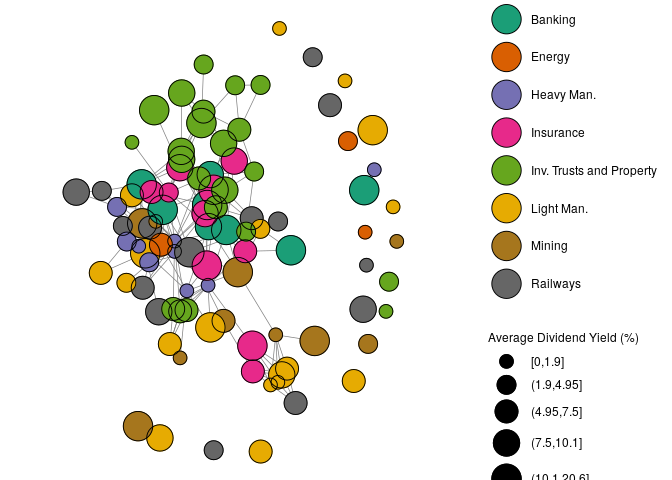
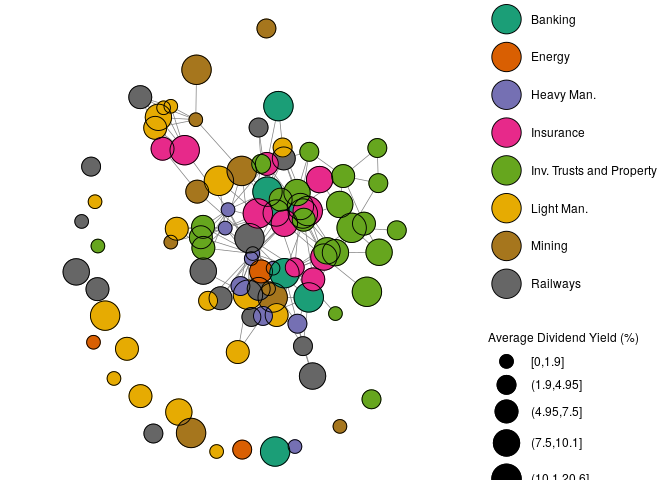
changed seed for nicer graph layout

diff --git a/README.md b/README.md
@@ -196,7 +196,7 @@ levels(indcat$IndCat) <- cat_cat
 
 V(cg)$indcat <- as.character(indcat$IndCat)
 
-set.seed(42)
+set.seed(123)
 ggnet2(cg, mode = 'fruchtermanreingold', layout.exp = .3,
        size = "prof", size.legend = "Average Dividend Yield (%)", 
        size.cut = 5, max_size = 10,
@@ -360,7 +360,7 @@ and re-estimating the regressions.
 # Estimations of Network effects w/ Measurement Error #
 #######################################################
 
-cg2 <- cg %>% delete.edges(E(cg)[from(V(cg)[V(cg)$indcat=="Banking"])])
+cg2 <- cg %>% delete.edges(E(cg)[from(V(cg)[V(cg)$indcat=="Mining"])])
 
 # Now extract adjacency matrix
 adjmat_nb <- get.adjacency(cg2, sparse = F)
@@ -392,34 +392,34 @@ screenreg(list(lm2_nb, extract.stsls(sts2_nb), extract.gstslshet(gsts2_nb), sacs
     ## ================================================================
     ##                     OLS        STSLS      GSTSLS     SAC/SARAR  
     ## ----------------------------------------------------------------
-    ## degree_nb           -0.32                                       
-    ##                     (0.32)                                      
-    ## betweenness_nb      -0.00                                       
+    ## degree_nb            0.16                                       
+    ##                     (0.34)                                      
+    ## betweenness_nb      -0.01                                       
     ##                     (0.01)                                      
-    ## eig_cent_nb          5.24                                       
-    ##                     (4.74)                                      
-    ## rho                            -0.06      -0.09         0.22    
-    ##                                (0.18)     (0.17)       (0.19)   
-    ## lambda                                     0.15        -0.25    
-    ##                                           (0.19)       (0.25)   
+    ## eig_cent_nb          1.39                                       
+    ##                     (6.41)                                      
+    ## rho                             0.15       0.19         0.07    
+    ##                                (0.16)     (0.15)       (0.25)   
+    ## lambda                                    -0.30        -0.19    
+    ##                                           (0.19)       (0.31)   
     ## capital              0.00       0.00       0.00         0.00    
     ##                     (0.00)     (0.00)     (0.00)       (0.00)   
-    ## qualifications      -0.01      -0.04      -0.03        -0.06    
-    ##                     (0.15)     (0.14)     (0.07)       (0.14)   
-    ## uncalled             0.64 *     0.66 *     0.63 ***     0.68 *  
-    ##                     (0.28)     (0.28)     (0.14)       (0.27)   
+    ## qualifications      -0.05      -0.07      -0.07        -0.06    
+    ##                     (0.15)     (0.15)     (0.08)       (0.14)   
+    ## uncalled             0.64 *     0.63 *     0.66 ***     0.65 *  
+    ##                     (0.28)     (0.28)     (0.16)       (0.27)   
     ## lag.capital                                            -0.00    
     ##                                                        (0.00)   
-    ## lag.qualifications                                     -0.23    
+    ## lag.qualifications                                     -0.03    
     ##                                                        (0.25)   
-    ## lag.uncalled                                            0.27    
-    ##                                                        (0.48)   
-    ## (Intercept)          6.76 ***   6.61 ***   6.77 ***     6.06 ***
-    ##                     (0.89)     (1.11)     (1.15)       (1.05)   
+    ## lag.uncalled                                            0.38    
+    ##                                                        (0.49)   
+    ## (Intercept)          5.88 ***   5.66 ***   5.42 ***     5.94 ***
+    ##                     (0.85)     (0.98)     (1.11)       (1.01)   
     ## ----------------------------------------------------------------
     ## R^2                  0.10       0.09       0.08                 
     ## Num. obs.           95         95.00      95.00        95       
     ## Parameters                                             10       
-    ## Log Likelihood                                       -290.36    
+    ## Log Likelihood                                       -290.35    
     ## ================================================================
     ## *** p < 0.001, ** p < 0.01, * p < 0.05
